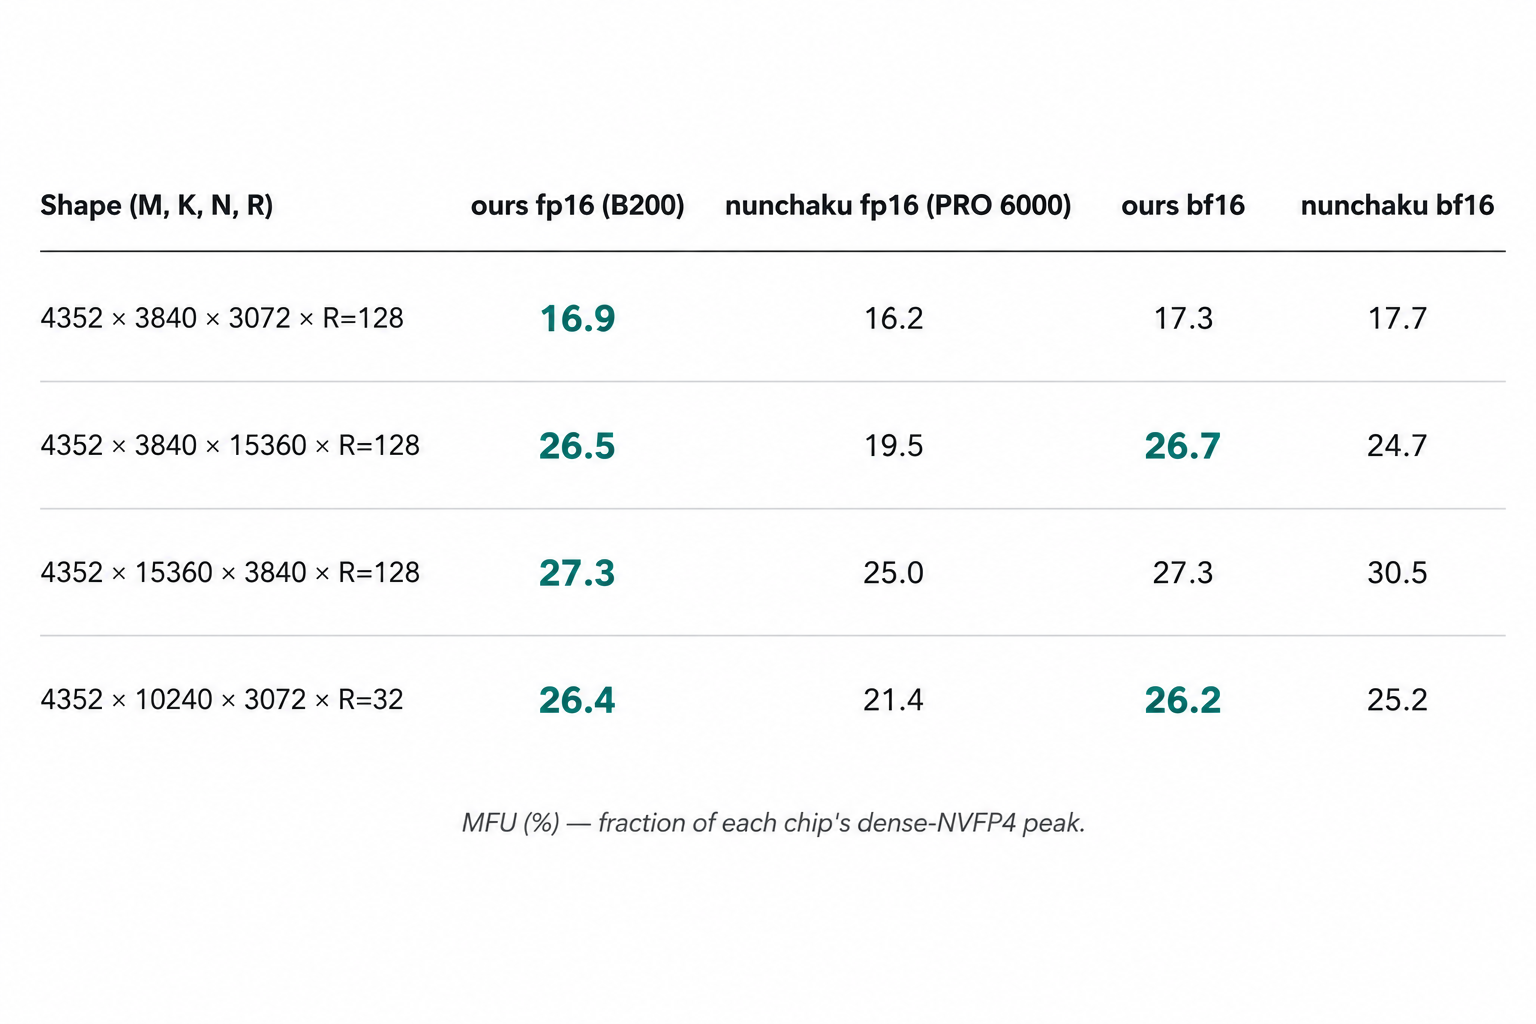
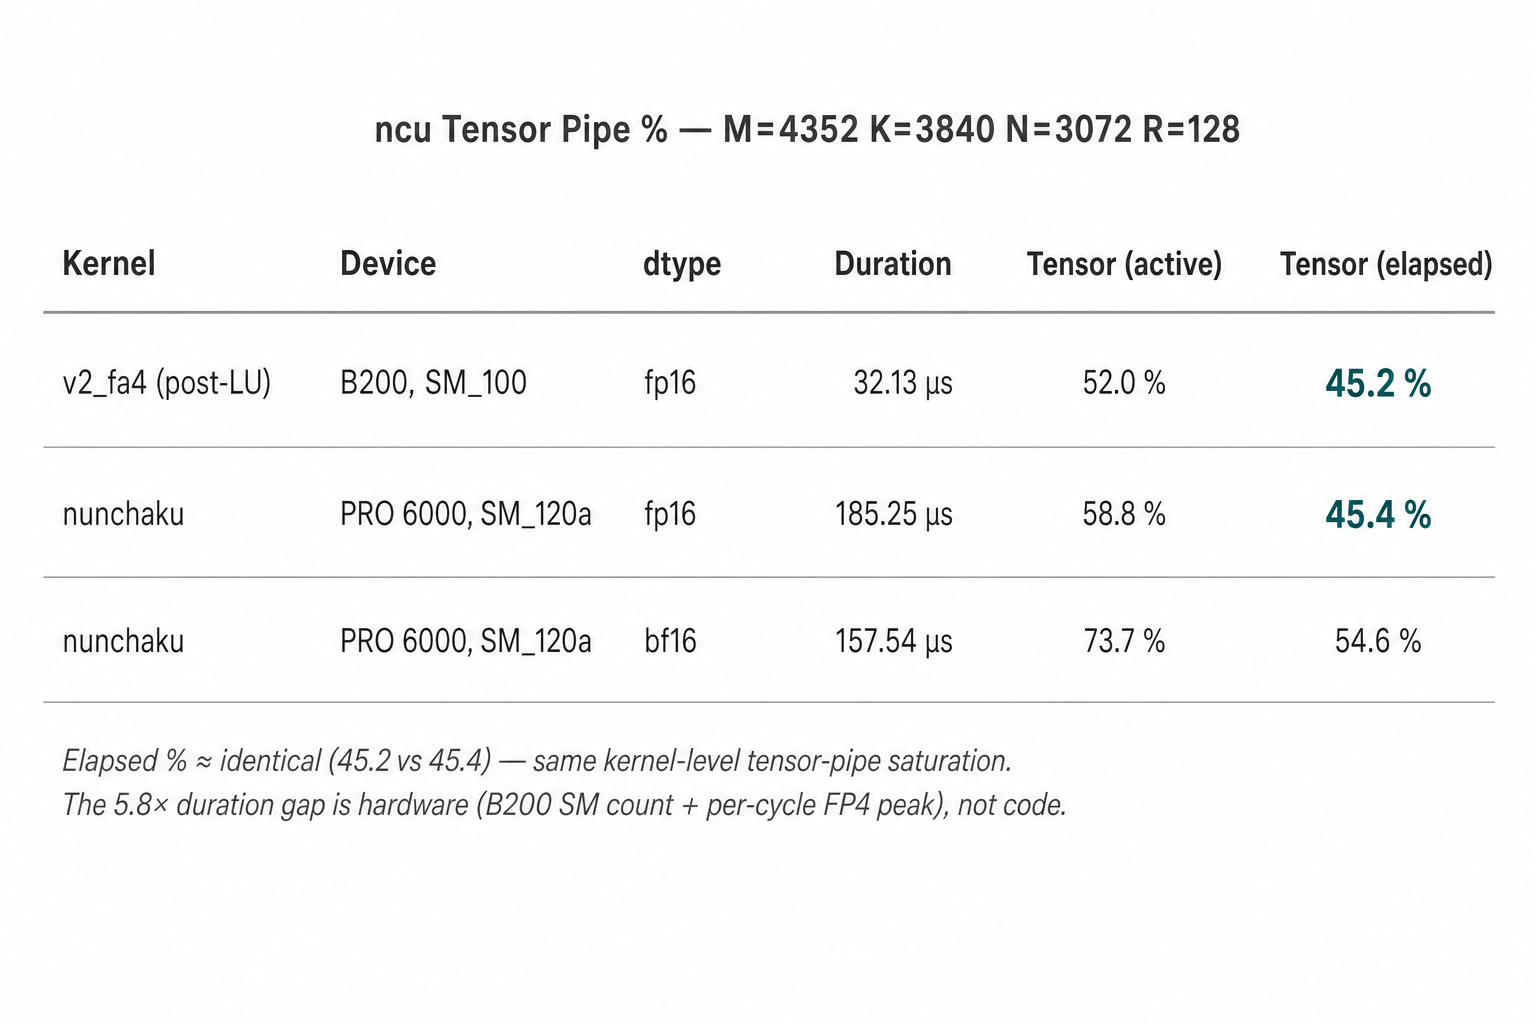
docs(blog): follow README — ncu Tensor Pipe % at one shape, drop cross-arch MFU
README pulled the 4-shape cross-arch MFU table (f491c1e) because
consumer-Blackwell boost-clock drift dominated the kernel-quality
signal. Apply the same change in the blog:

  - §1 preface figure: was 4-shape MFU table; now 3-row ncu Tensor
    Pipe % at production shape M=4352 K=3840 N=3072 R=128. fp16
    elapsed lands at 45.2 (ours, B200 sm_100) vs 45.4 (nunchaku,
    PRO 6000 sm_120a) — same kernel-level saturation, 5.8× duration
    gap is hardware.
  - §1 prose: rewrite to explain clock-independent readout and why
    we dropped cross-arch MFU.
  - §9.2: drop the 4-shape MFU table and the 4-shape cross-card TF
    table; replace with three reads of the ncu numbers (elapsed = code
    quality, active = DSL-vs-PTX codegen gap, duration = hardware).
    Keep the nunchaku fp16 register-cliff note — it now explains the
    9.2 pp bf16-over-fp16 gap inside nunchaku's column.

Same-device MFU references (LU fix 4.2% → 16.9%, v1 ~27%, CUTLASS
ceiling 45-63%) untouched — those are ours-vs-ours on B200 and
unaffected by clock drift.

diff --git a/docs/blog/2026-05-13-svdquant-w4a4-blackwell.md b/docs/blog/2026-05-13-svdquant-w4a4-blackwell.md
@@ -21,20 +21,33 @@ PTX, kernel docstrings, gotcha docs — best read alongside the repo
 
 ## 1. Preface
 
-![Per-shape MFU vs nunchaku — bold-teal cells mark where we lead](figures/preface_table_en.png)
+![Tensor Pipe % at production shape — ours fp16 and nunchaku fp16 elapsed land within 0.2 pp](figures/preface_table_en.png)
 
-Numbers are MFU (fraction of each chip's dense-NVFP4 peak). **Mind
-the chips**: we run on B200 (SM_100, 10 PFLOPS dense FP4 peak);
-nunchaku's NVFP4 is gated on `__CUDA_ARCH__ >= 1200` and ships only
-SM_120a/121a binaries, so we run it on RTX PRO 6000 (4 PFLOPS peak)
-— two tensor-core ISAs, two toolchains, two generations of Blackwell.
-MFU normalizes for each chip's peak, but **this table is not a
-verdict on whose code is better written** — it is an
-implementation-quality reference ("how fast does mature hand-rolled
-inline PTX go on its own target chip"). Same B200, no LoRA or
-affine, CUTLASS's `dense_blockscaled_gemm_persistent.py` at 2-CTA
-256×256 lands at 45–63 % MFU. *That* is the headroom that still
-matters.
+Numbers come from `ncu`'s
+`sm__pipe_tensor_cycles_active.avg.pct_of_peak_sustained_*` counter —
+how busy the tensor pipe was on each device's own per-cycle ceiling,
+**clock-independent**. We started with cross-arch MFU but had to drop
+it: nunchaku only ships SM_120a/121a (consumer/workstation Blackwell,
+see `nunchaku/setup.py:41-64`), there is no SM_100 binary, so the
+comparison is inherently data-center-Blackwell vs consumer-Blackwell —
+and consumer boost clocks swing wide enough that MFU readings drift
+more than the kernel-quality signal we wanted (`docs/gpu.md § Cross-arch
+MFU caveat`).
+
+Read it: ours-fp16 and nunchaku-fp16 saturate their respective tensor
+pipes to within 0.2 pp **on each card's own per-cycle peak** —
+both kernels push the hardware they sit on to roughly the same
+fraction of its ceiling. The 5.8× duration gap is the B200's larger
+SM count and higher per-cycle FP4 peak doing its job, not a
+code-quality gap. nunchaku's bf16 elapsed sits 9.2 pp above its fp16
+elapsed because the fp16 path hits a register-pressure cliff
+(255 regs/thread + 2.28 M LMEM spills, full breakdown in §9.2);
+ours has no such cliff in either dtype.
+
+Same B200, no LoRA / no affine / no next-quant, CUTLASS's
+`dense_blockscaled_gemm_persistent.py` at 2-CTA 256×256 lands at
+45–63 % MFU. *That* same-device MFU is unaffected by the cross-chip
+clock-drift problem and is the headroom that still matters.
 
 The op is the compute-bound half of SVDQuant: NVFP4 scaled MMA + a
 small low-rank LoRA residual + a per-column affine. The math fits on
@@ -1033,52 +1046,56 @@ nunchaku NVFP4 is gated on `__CUDA_ARCH__ >= 1200` (SM_120a/121a, see
 `nunchaku/setup.py:41-64`), so we can't run it on B200 — there is
 no nunchaku binary for SM_100. We run it on RTX PRO 6000 Blackwell
 Server Edition (SM_120a) as an *implementation-quality reference*,
-not a ceiling. Hardware peaks differ 2.5× (B200's 10 PFLOPS NVFP4 vs
-PRO 6000's 4 PFLOPS), so MFU comparisons stay apples-to-apples only
-if you stay inside one side's column.
+not a ceiling.
 
-| Shape (M, K, N, R)              | ours fp16 (B200) | nunchaku fp16 (PRO 6000) | Δ pp  | ours bf16 | nunchaku bf16 | Δ pp  |
-| ------------------------------- | ---------------- | ------------------------ | ----- | --------- | ------------- | ----- |
-| 4352 × 3840  × 3072  × R=128    |  **16.9**        |   16.2                   |  +0.7 |   17.3    |   17.7        |  −0.4 |
-| 4352 × 3840  × 15360 × R=128    |  **26.5**        |   19.5                   |  +7.0 |  **26.7** |   24.7        |  +2.0 |
-| 4352 × 15360 × 3840  × R=128    |  **27.3**        |   25.0                   |  +2.3 |   27.3    |   30.5        |  −3.2 |
-| 4352 × 10240 × 3072  × R=32     |  **26.4**        |   21.4                   |  +5.0 |  **26.2** |   25.2        |  +1.0 |
+§1's table is the apples-to-apples readout: `ncu`
+`sm__pipe_tensor_cycles_active.avg.pct_of_peak_sustained_*` at the
+production shape `M=4352 K=3840 N=3072 R=128`. Three numbers per row,
+three things they tell you:
 
-(Source: `docs/gpu.md:314-319`.) **fp16: 4/4 shapes ahead. bf16: 2/4
-ahead, 1/4 within ±0.5 pp noise, 1/4 still 3.2 pp behind** on the
-M=4352 K=15360 N=3840 shape. That −3.2 pp gap is the "bf16 hand-PTX
-vs DSL MLIR lowering" asymmetry called out in `docs/gpu.md:79-103`:
-nunchaku's MMA is inline PTX (`mma_earlycuda.cuh`), two separately
-hand-tuned paths for fp16 vs bf16 with different register packing
-and acc-precision choices. Ours goes through one `tcgen05` atom with
-`ab_dtype` substitution — same MLIR lowering for both. Closing the
-last 3 pp on bf16 likely requires dropping to inline PTX, which is
-out of scope.
+- **elapsed % is the same** (45.2 vs 45.4). Over the kernel's
+  wall-clock, both kernels saturate their respective tensor pipes
+  to within 0.2 pp. This is the kernel-quality readout — each side
+  pushes the hardware it sits on to the same fraction of its own
+  per-cycle ceiling.
+- **active % differs** (52.0 vs 58.8 on fp16). Over cycles when the
+  SM has work, nunchaku's hand-PTX packs more tensor work per active
+  cycle; ours has more bubble cycles. This is the structural
+  DSL-vs-PTX codegen gap called out in `docs/gpu.md:79-103`:
+  nunchaku's MMA is inline PTX (`mma_earlycuda.cuh`), two separately
+  hand-tuned paths for fp16 and bf16 with different register packing
+  and acc-precision choices; ours goes through one `tcgen05` atom
+  with `ab_dtype` substitution — same MLIR lowering for both.
+  Closing the active % gap likely requires dropping to inline PTX,
+  out of scope.
+- **5.8× duration gap** is hardware capability: B200 SM_100 has more
+  SMs and a higher per-cycle FP4 peak than PRO 6000 SM_120a. Not a
+  code-quality readout.
 
-Absolute throughput at the same shapes (B200 vs PRO 6000, peak ratio
-~2.5×):
+**Why we don't quote cross-arch MFU here.** MFU (FLOPS / device peak)
+needs a stable device peak. Consumer Blackwell (PRO 6000, RTX 50)
+sustained clocks swing wide with thermal envelope and per-die
+binning — the "peak FLOPS" denominator in the spec sheet is one
+specific clock, and the runtime drifts above or below. A 4-shape
+cross-arch MFU table previously lived in this section; we pulled it
+after re-running and finding the clock-drift signal exceeded the
+kernel-quality signal. `docs/gpu.md § Cross-arch MFU caveat` is the
+fuller writeup.
 
-| Shape                           | ours TF (B200) | nunchaku TF (PRO 6000) | ratio |
-| ------------------------------- | -------------- | ---------------------- | ----- |
-| 4352 × 3840  × 3072  × R=128    |   1685         |   ~648                 | 2.60× |
-| 4352 × 3840  × 15360 × R=128    |   2648         |   ~780                 | 3.40× |
-| 4352 × 15360 × 3840  × R=128    |   2735         |  ~1000                 | 2.74× |
-| 4352 × 10240 × 3072  × R=32     |   2645         |   ~856                 | 3.09× |
+**A brief note on nunchaku's fp16 column.** The 9.2 pp gap between
+nunchaku fp16 elapsed (45.4 %) and nunchaku bf16 elapsed (54.6 %)
+**inside their column** is a register-pressure cliff: their fp16
+hand-PTX hits 255 regs/thread + ~2.28 M LMEM spills + 101 % spill
+overhead; the bf16 path is 248 regs and zero spill. The 7-register
+difference is "fits on-chip" vs "doesn't." Ours has neither cliff —
+single `tcgen05` atom + `ab_dtype` substitution goes through the
+same MLIR lowering for both dtypes, so our fp16 elapsed ≈ our bf16
+elapsed. This is a property of their reference's codegen on
+consumer Blackwell, not a property of our kernel.
 
-(Source: `docs/gpu.md:330-335`.) Cross-card numbers are for absolute
-reference only; the apples-to-apples claim is the same-column MFU
-table above.
-
-**A brief note on nunchaku's fp16 column:** their hand-PTX fp16 path
-hits 255 regs/thread + ~2.28 M LMEM spills + 101 % spill overhead;
-the bf16 path is 248 regs and zero spill. The 7-register difference
-is the register-cliff that explains the ~5 pp bf16-over-fp16 jump
-inside their column. We don't reproduce that asymmetry — our single
-`tcgen05` atom with `ab_dtype` substitution goes through the same
-MLIR lowering for both dtypes, so our fp16 ≈ bf16 (within ±0.1 pp
-on three of four shapes). This is a property of their reference's
-codegen, not a property of our kernel; it explains the shape of
-their column, not the location of ours.
+Reports: `log/ncu_v2_postLUfix_4352_3840_3072_R128.ncu-rep` (B200),
+`log/ncu_nunchaku_4352_3840_3072_R128_{fp16,bf16}.ncu-rep` (Verda
+RTX PRO 6000, sm_120a).
 
 ## 10. What's still on the table
 